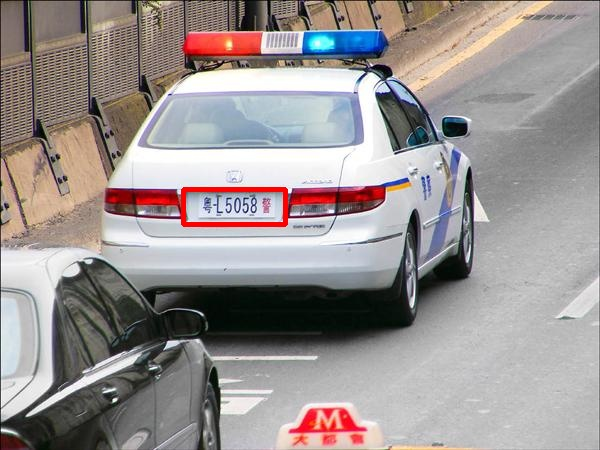
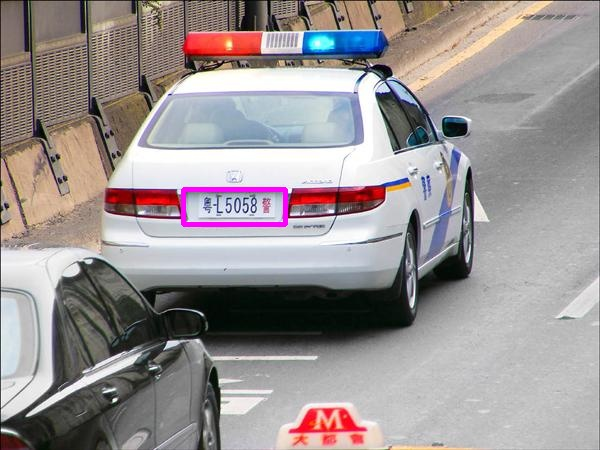
license plate complete

Changed region(s): [[0.3, 0.4044, 0.48, 0.5289]]

diff --git a/hw1/LicensePlate/LicensePlate.py b/hw1/LicensePlate/LicensePlate.py
@@ -4,8 +4,6 @@ import ImageProcess
 import numpy as np
 import matplotlib.pyplot as plt
 
-
-image_file = ["/Users/liushiwen/Desktop/大四下/機器學習系統/MLSystemDesign/hw1/LicensePlate/image/01.jpg", "/Users/liushiwen/Desktop/大四下/機器學習系統/MLSystemDesign/hw1/LicensePlate/image/02.jpg", "/Users/liushiwen/Desktop/大四下/機器學習系統/MLSystemDesign/hw1/LicensePlate/image/03.jpg"]
 def main(img_path, ii):
     ori_img = cv2.imread(img_path) 
     plt.imshow(ori_img, cmap="gray")
@@ -13,14 +11,13 @@ def main(img_path, ii):
     img = cv2.cvtColor(ori_img, cv2.COLOR_BGR2GRAY)
     img=ImageProcess.Image_Filter(img,'GaussianBlur',show_image=False,size=5)
     post_img=ImageProcess.Edge_Detection(img,'Sobel',gray=False,show_image=False)
-    #post_img=ImageProcess.Image_Filter(post_img,'GaussianBlur',show_image=True,size=7)
-    ret, th1 = cv2.threshold(post_img,85,255,cv2.THRESH_BINARY)
+    _, th1 = cv2.threshold(post_img,85,255,cv2.THRESH_BINARY)
 
     kernel = cv2.getStructuringElement(cv2.MORPH_ELLIPSE, (5, 5))
-    # 閉運算
     closed = cv2.morphologyEx(th1, cv2.MORPH_CLOSE, kernel)
     closed = cv2.dilate(closed, None, iterations=2)
     closed = cv2.erode(closed, None, iterations=2)
+
     (cnts, _) = cv2.findContours(closed,cv2.RETR_TREE,cv2.CHAIN_APPROX_SIMPLE)
     possible_img = ori_img.copy()
 
@@ -28,14 +25,15 @@ def main(img_path, ii):
         rect = cv2.minAreaRect(c)
         Box = np.intp(cv2.boxPoints(rect))
         Box=ImageProcess.order_points_new(Box) # return  左上/右上/右下/左下 (x,y)
-        # determine by 工人智慧,指定方框條件設定,同學們可以在這裡調整條件
-        if  20<Box[2][1]-Box[1][1]<80  and 60<abs(Box[0][0]-Box[1][0])<200  and -3<Box[0][1]-Box[1][1]<10  :
-            possible_img = cv2.drawContours(possible_img, [Box], -1, (0, 0, 255), 3)
-            plt.imshow(possible_img, cmap="gray")
+
+        if  20<Box[2][1]-Box[1][1]<80  and 60<Box[1][0]-Box[0][0]<200  and -3<Box[0][1]-Box[1][1]<10  :
+            possible_img = cv2.drawContours(possible_img, [Box], -1, (255, 0, 255), 3)
+            plt.imshow(possible_img[:,:,::-1], cmap="gray")
             plt.show()
             break
     cv2.imwrite(f'output/0{ii}.jpg', possible_img)
     
 if __name__ == "__main__":
+    image_file = ["image/01.jpg", "image/02.jpg", "image/03.jpg"]
     for ii in range(3):
         main(image_file[ii], ii)
